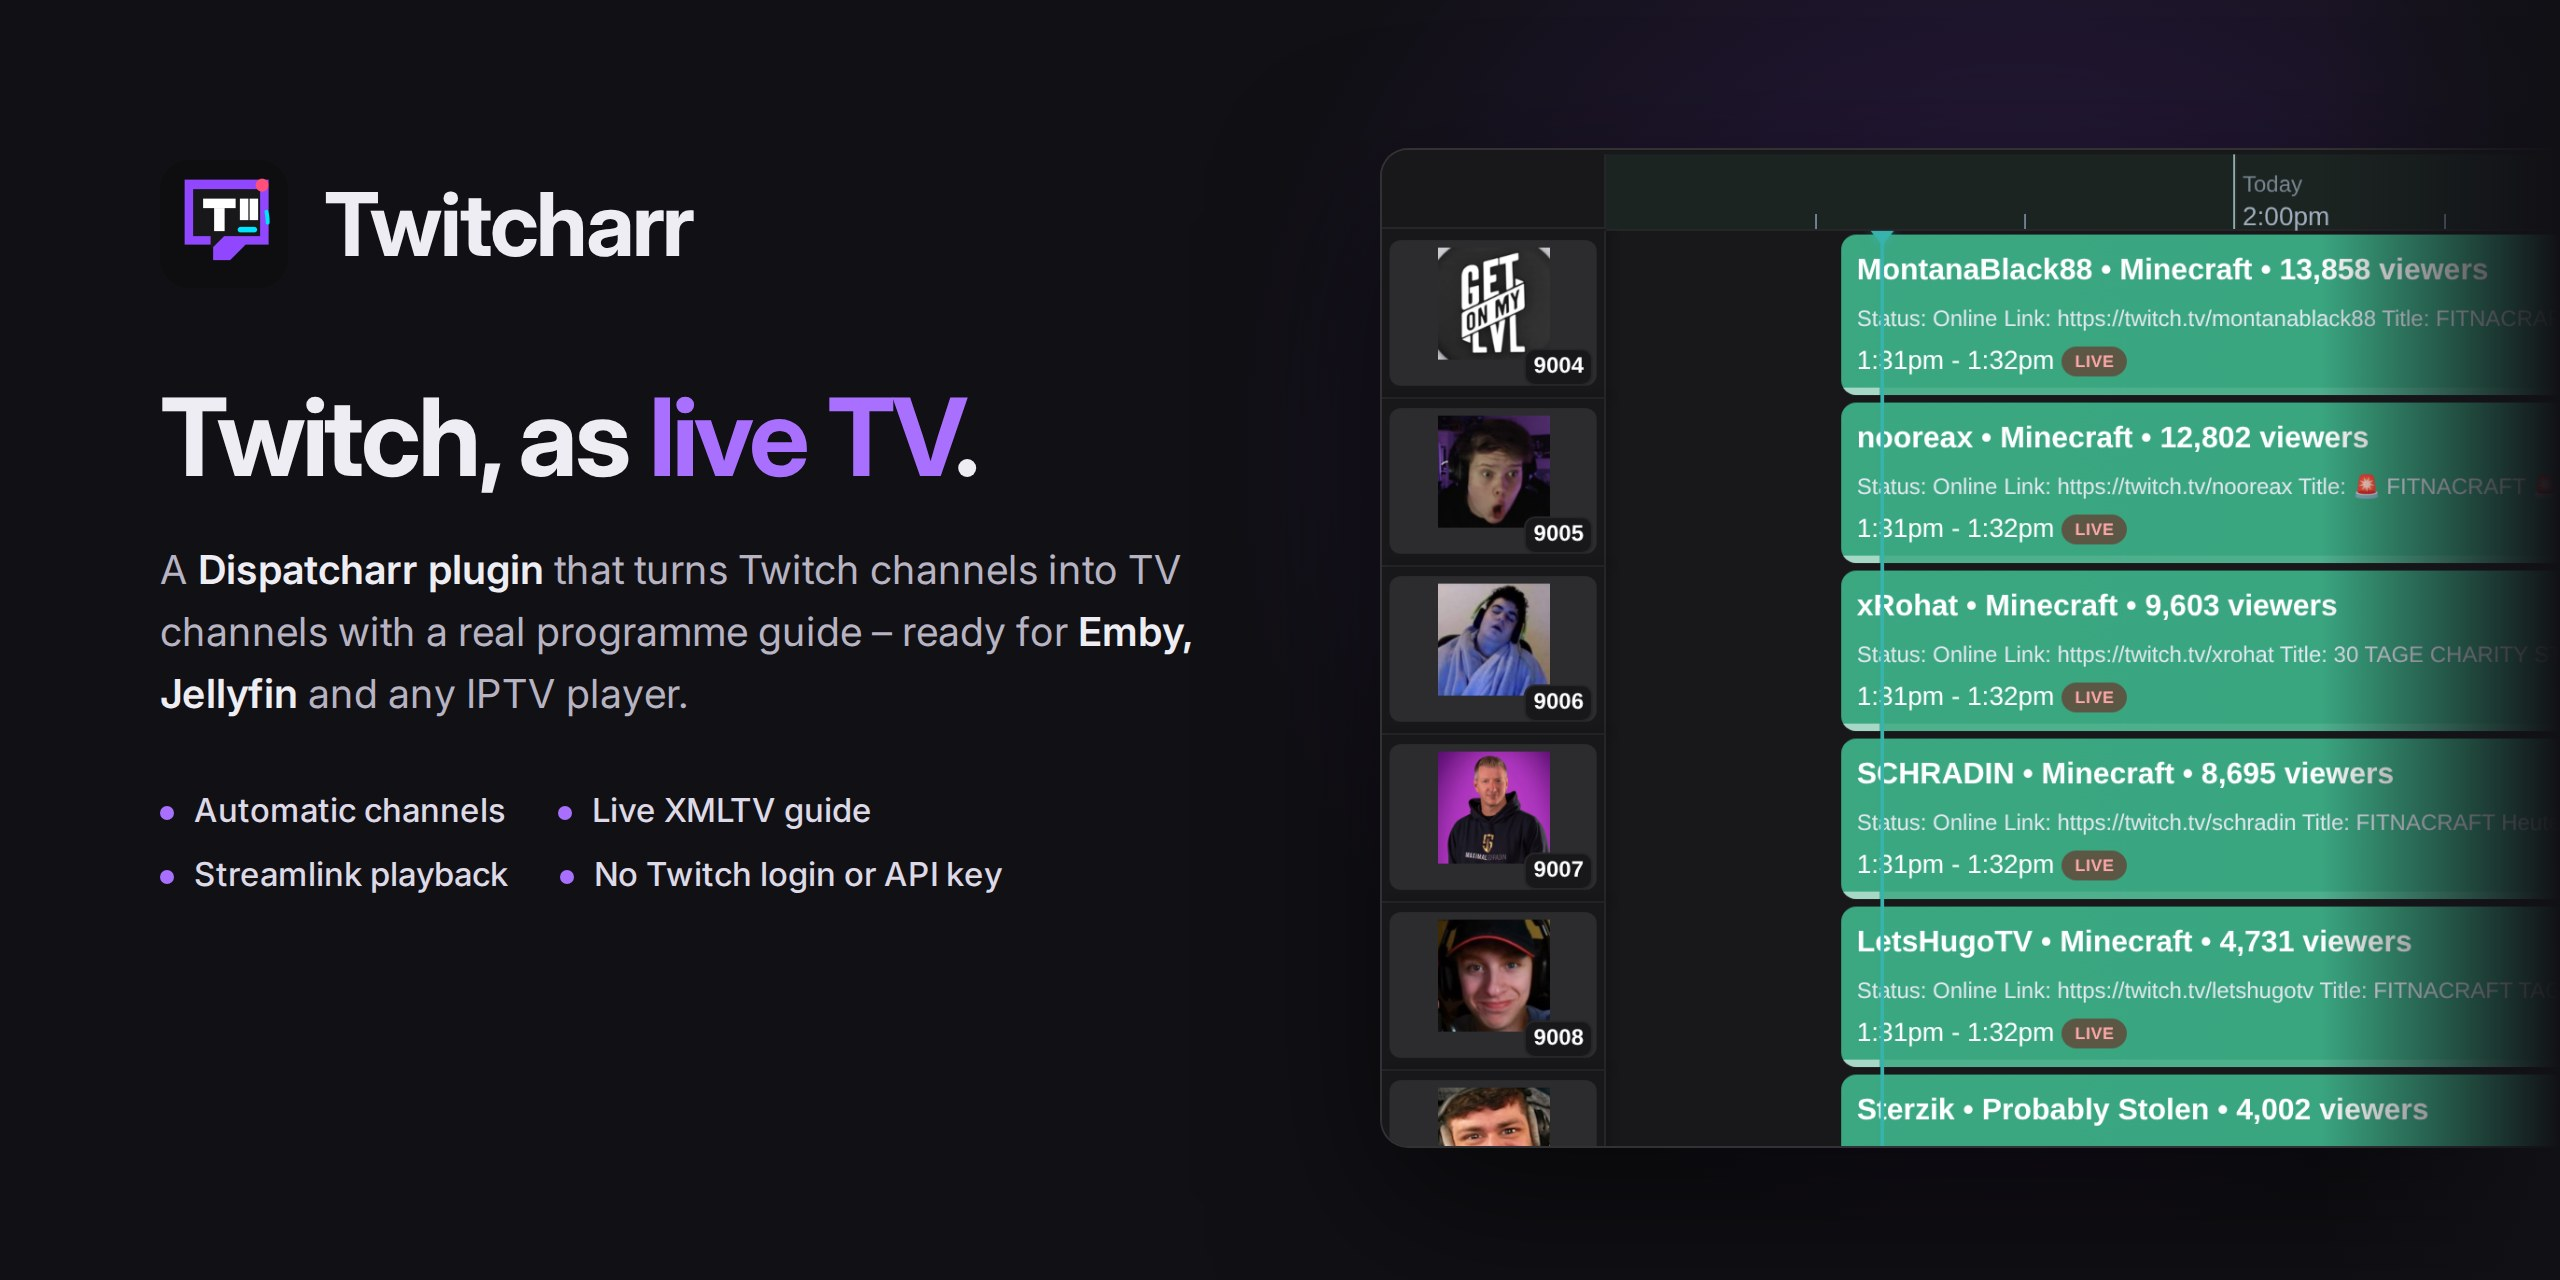
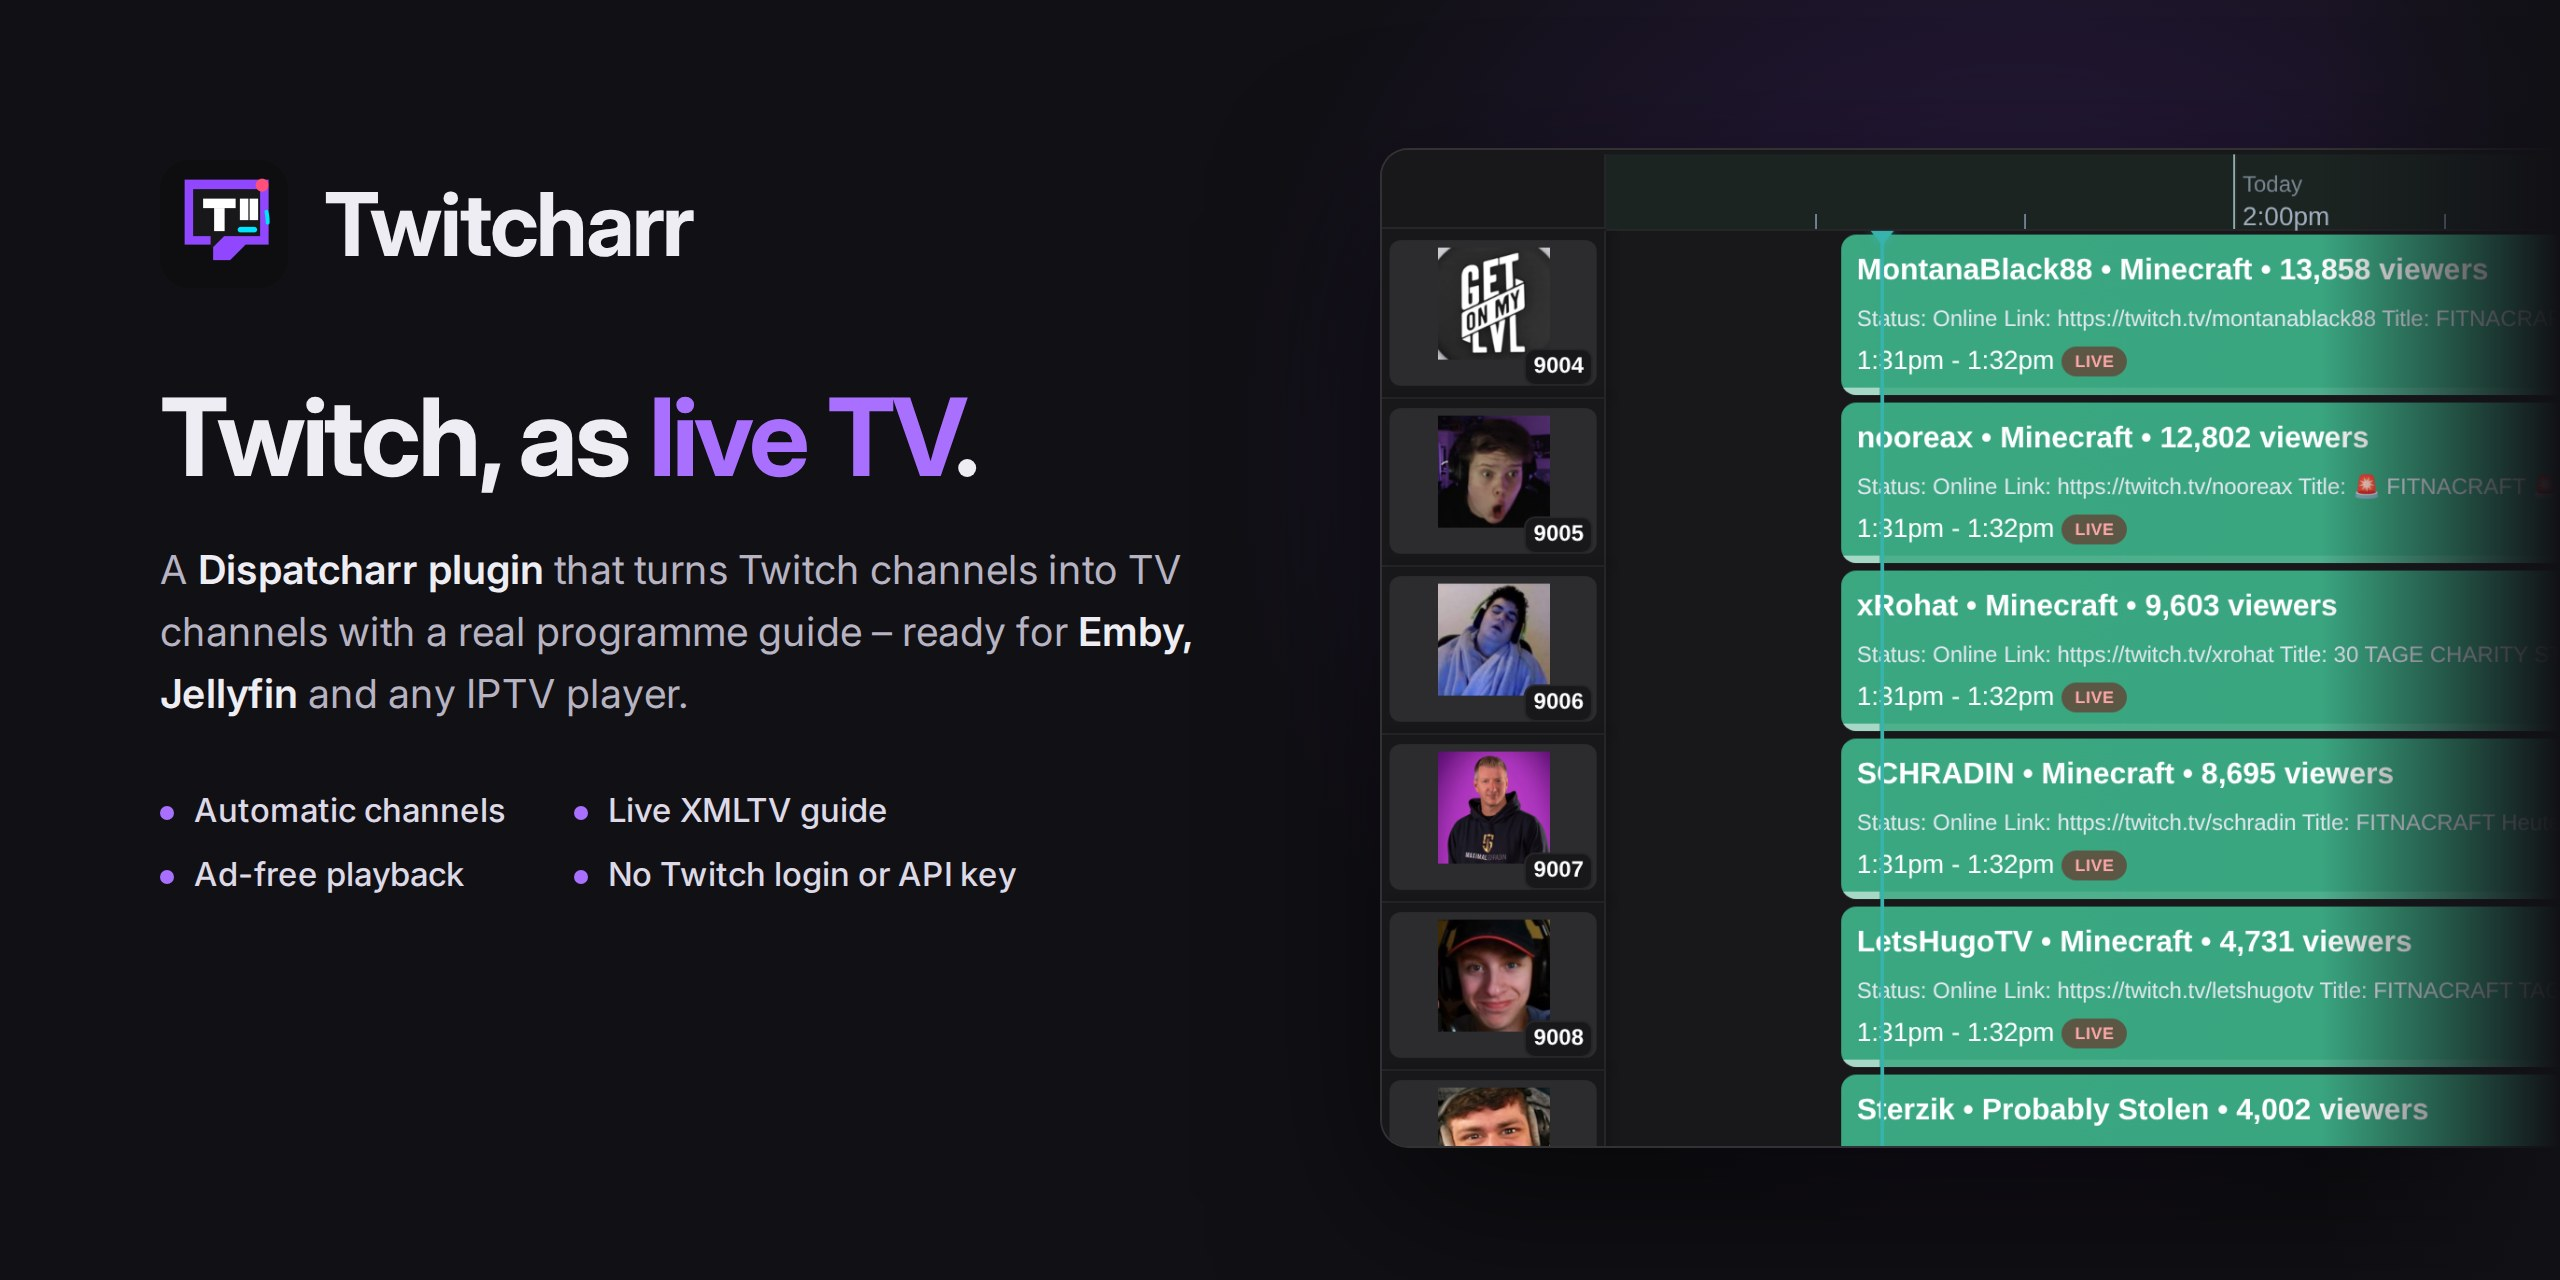
README: mention ad-free playback (ttv.lol proxies + Streamlink ad filter)

Changed region(s): [[0.2188, 0.625, 0.4062, 0.7188], [0.0625, 0.6562, 0.1875, 0.7188]]

diff --git a/README.md b/README.md
@@ -15,7 +15,7 @@
 favourite Twitch streamers into regular live-TV channels – with logos, a
 programme guide that shows who is live, what they are playing and how many
 people are watching. Open your TV app in Emby, Jellyfin or any IPTV player and
-zap to Twitch like to any other channel.
+zap to Twitch like to any other channel – with Twitch ads filtered out.
 
 Under the hood it turns Twitch channel names, Twitch URLs, and a few discovery
 tokens into managed Dispatcharr Channels, Streams, StreamProfile entries, and
@@ -55,6 +55,7 @@ individual streams.
 | Channel profiles | Adds managed channels to Dispatcharr channel profiles: globally via the **Channel profiles** setting, per entry via `name(profile1, profile2)`. |
 | Dispatcharr objects | Creates and updates Twitcharr-owned Channels, Streams, a Channel Group, an EPG source, one StreamProfile, and an Emby-safe OutputProfile. |
 | Guide data | Writes Dispatcharr `EPGData` / `ProgramData` rows and `<data_dir>/twitch.xmltv`. |
+| Ad-free playback | The managed StreamProfile uses the ad-free ttv.lol playlist proxies and Streamlink's Twitch ad filter, so ads are not shown. If no proxy is reachable, Streamlink filters the ads but the picture may pause until the ad break is over. |
 | ttv.lol | Checks for and installs the newest stable streamlink-ttvlol release after SHA-256 verification. |
 | Offline channels | **Show offline channels** is on by default so Emby/Jellyfin lineups stay stable. Turn it off for a live-only lineup. |
 | Images | Uses stable Twitch channel avatars for channel logos by default and category artwork for programme images. Category logos remain selectable. |
